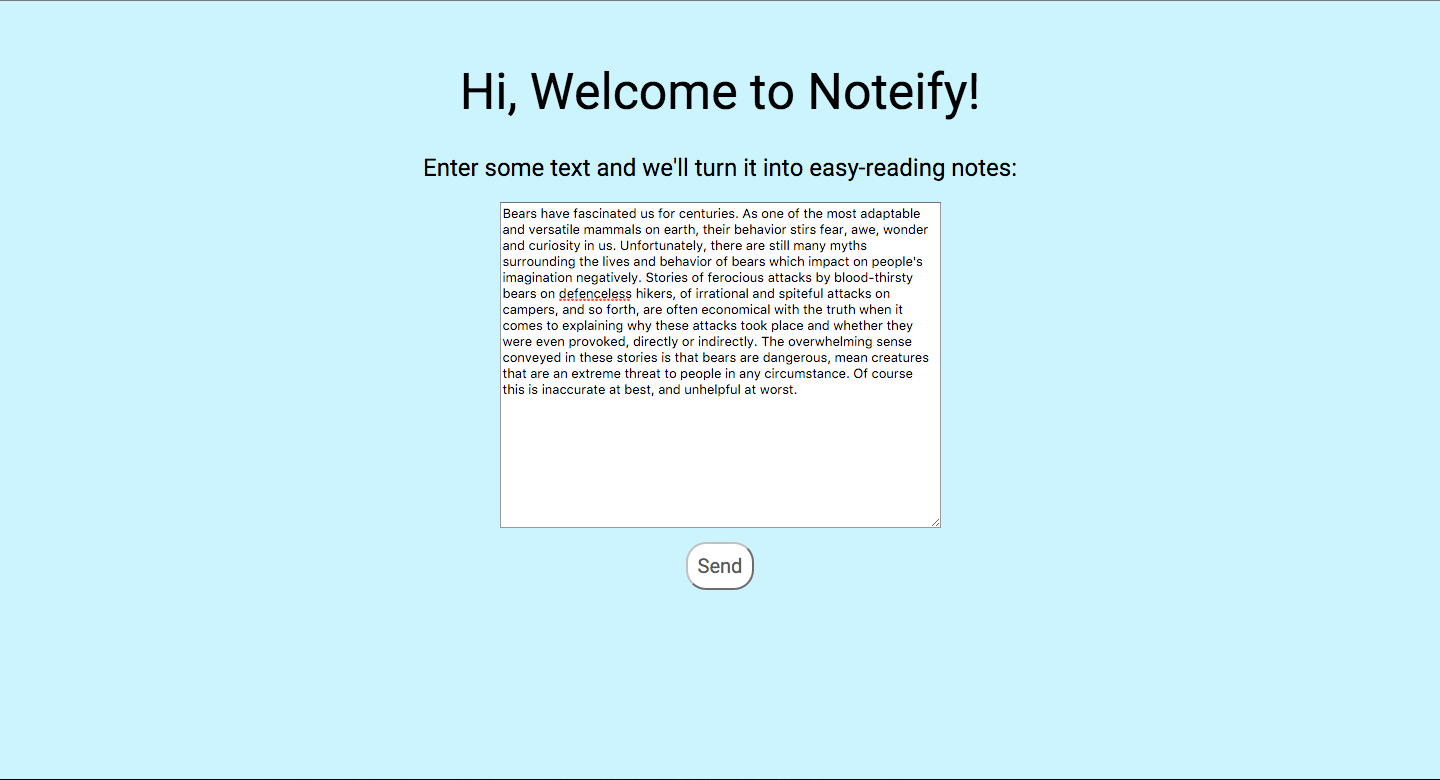
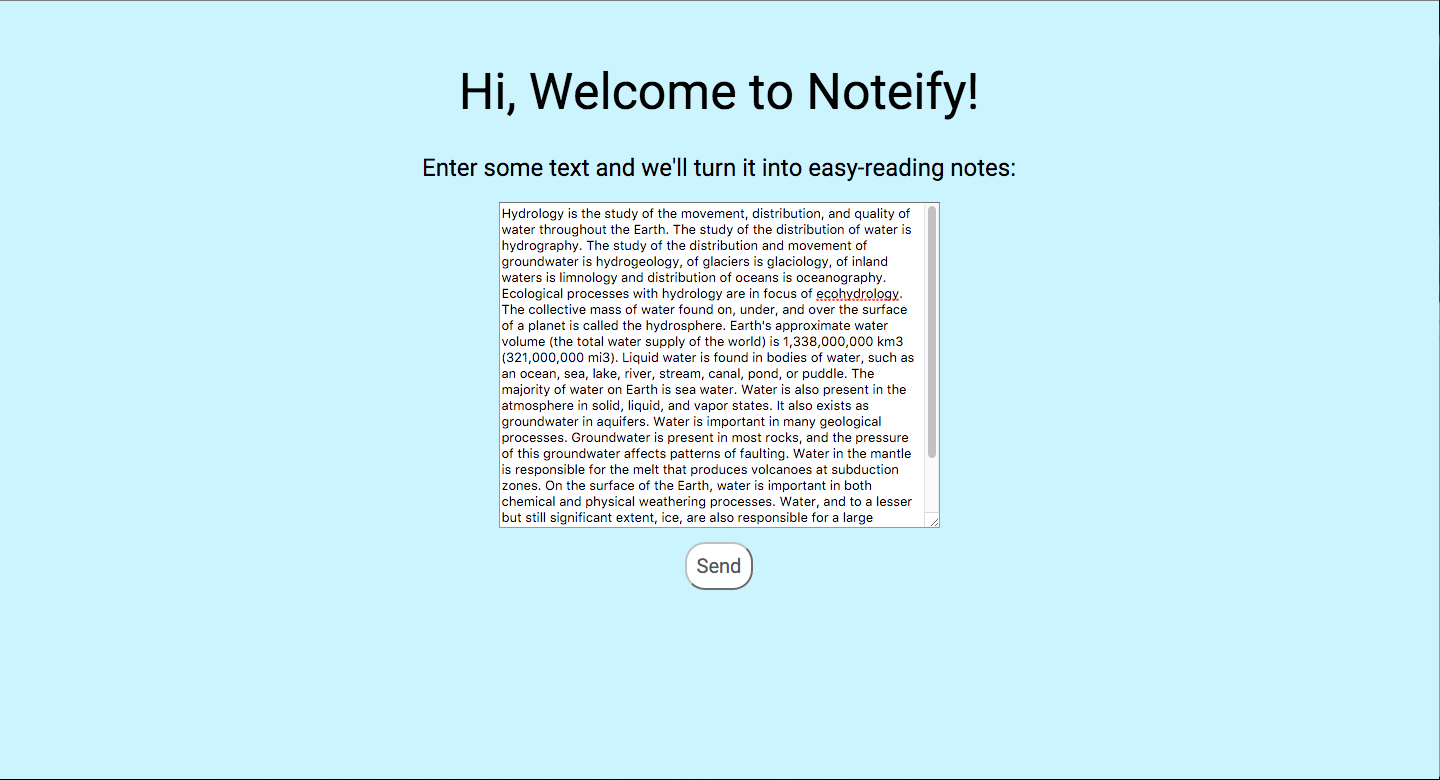
yay we're done

diff --git a/templates/page.html b/templates/page.html
@@ -1,1 +1,1 @@
-<html><head><link href='../static/styles.css' rel='stylesheet'><title>Converted Text</title></head><body id='convertedbody'><p><font size="4">Bears</font><font size="5"> </font><font size="2.5">have</font><font size="5"> </font><font size="5">fascinated</font><font size="5"> </font><font size="2.5">us</font><font size="5"> </font><font size="2.5">for</font><font size="5"> </font><font size="4">centuries</font>.<font size="5"></font><font size="5"> </font><font size="2.5">As</font><font size="5"> </font><font size="2.5">one</font><font size="5"> </font><font size="2.5">of</font><font size="5"> </font><font size="2.5">the</font><font size="5"> </font><font size="3">most</font><font size="5"> </font><font size="5">adaptable</font><font size="5"> </font><font size="2.5">and</font><font size="5"> </font><font size="4">versatile</font><font size="5"> </font><font size="4">mammals</font><font size="5"> </font><font size="2.5">on</font><font size="5"> </font><font size="4">earth</font>,<font size="5"></font><font size="5"> </font><font size="2.5">their</font><font size="5"> </font><font size="4">behavior</font><font size="5"> </font><font size="5">stirs</font><font size="5"> </font><font size="4">fear</font>,<font size="5"></font><font size="5"> </font><font size="5">awe</font>,<font size="5"></font><font size="5"> </font><font size="4">wonder</font><font size="5"> </font><font size="2.5">and</font><font size="5"> </font><font size="5">curiosity</font><font size="5"> </font><font size="2.5">in</font><font size="5"> </font><font size="2.5">us</font>.<font size="5"></font><font size="5"> </font><font size="4">Unfortunately</font>,<font size="5"></font><font size="5"> </font><font size="2.5">there</font><font size="5"> </font><font size="2.5">are</font><font size="5"> </font><font size="3">still</font><font size="5"> </font><font size="3">many</font><font size="5"> </font><font size="5">myths</font><font size="5"> </font><font size="4">surrounding</font><font size="5"> </font><font size="2.5">the</font><font size="5"> </font><font size="4">lives</font><font size="5"> </font><font size="2.5">and</font><font size="5"> </font><font size="4">behavior</font><font size="5"> </font><font size="2.5">of</font><font size="5"> </font><font size="4">bears</font><font size="5"> </font><font size="2.5">which</font><font size="5"> </font><font size="4">impact</font><font size="5"> </font><font size="2.5">on</font><font size="5"> </font><font size="5">people's</font><font size="5"> </font><font size="4">imagination</font><font size="5"> </font><font size="5">negatively</font>.<font size="5"></font><font size="5"> </font><font size="3">Stories</font><font size="5"> </font><font size="2.5">of</font><font size="5"> </font><font size="5">ferocious</font><font size="5"> </font><font size="4">attacks</font><font size="5"> </font><font size="2.5">by</font><font size="5"> </font><font size="4">blood</font>-<font size="5">thirsty</font><font size="5"> </font><font size="4">bears</font><font size="5"> </font><font size="2.5">on</font><font size="5"> </font><font size="5">defenceless</font><font size="5"> </font><font size="5">hikers</font>,<font size="5"></font><font size="5"> </font><font size="2.5">of</font><font size="5"> </font><font size="4">irrational</font><font size="5"> </font><font size="2.5">and</font><font size="5"> </font><font size="4">spiteful</font><font size="5"> </font><font size="4">attacks</font><font size="5"> </font><font size="2.5">on</font><font size="5"> </font><font size="5">campers</font>,<font size="5"></font><font size="5"> </font><font size="2.5">and</font><font size="5"> </font><font size="2.5">so</font><font size="5"> </font><font size="4">forth</font>,<font size="5"></font><font size="5"> </font><font size="2.5">are</font><font size="5"> </font><font size="3">often</font><font size="5"> </font><font size="5">economical</font><font size="5"> </font><font size="2.5">with</font><font size="5"> </font><font size="2.5">the</font><font size="5"> </font><font size="4">truth</font><font size="5"> </font><font size="2.5">when</font><font size="5"> </font><font size="2.5">it</font><font size="5"> </font><font size="4">comes</font><font size="5"> </font><font size="2.5">to</font><font size="5"> </font><font size="4">explaining</font><font size="5"> </font><font size="3">why</font><font size="5"> </font><font size="2.5">these</font><font size="5"> </font><font size="4">attacks</font><font size="5"> </font><font size="4">took</font><font size="5"> </font><font size="3">place</font><font size="5"> </font><font size="2.5">and</font><font size="5"> </font><font size="3">whether</font><font size="5"> </font><font size="2.5">they</font><font size="5"> </font><font size="2.5">were</font><font size="5"> </font><font size="3">even</font><font size="5"> </font><font size="5">provoked</font>,<font size="5"></font><font size="5"> </font><font size="4">directly</font><font size="5"> </font><font size="2.5">or</font><font size="5"> </font><font size="5">indirectly</font>.<font size="5"></font><font size="5"> </font><font size="2.5">The</font><font size="5"> </font><font size="5">overwhelming</font><font size="5"> </font><font size="4">sense</font><font size="5"> </font><font size="5">conveyed</font><font size="5"> </font><font size="2.5">in</font><font size="5"> </font><font size="2.5">these</font><font size="5"> </font><font size="3">stories</font><font size="5"> </font><font size="2.5">is</font><font size="5"> </font><font size="2.5">that</font><font size="5"> </font><font size="4">bears</font><font size="5"> </font><font size="2.5">are</font><font size="5"> </font><font size="4">dangerous</font>,<font size="5"></font><font size="5"> </font><font size="4">mean</font><font size="5"> </font><font size="4">creatures</font><font size="5"> </font><font size="2.5">that</font><font size="5"> </font><font size="2.5">are</font><font size="5"> </font><font size="2.5">an</font><font size="5"> </font><font size="4">extreme</font><font size="5"> </font><font size="4">threat</font><font size="5"> </font><font size="2.5">to</font><font size="5"> </font><font size="3">people</font><font size="5"> </font><font size="2.5">in</font><font size="5"> </font><font size="2.5">any</font><font size="5"> </font><font size="5">circumstance</font>.<font size="5"></font><font size="5"> </font><font size="2.5">Of</font><font size="5"> </font><font size="3">course</font><font size="5"> </font><font size="2.5">this</font><font size="5"> </font><font size="2.5">is</font><font size="5"> </font><font size="5">inaccurate</font><font size="5"> </font><font size="2.5">at</font><font size="5"> </font><font size="3">best</font>,<font size="5"></font><font size="5"> </font><font size="2.5">and</font><font size="5"> </font><font size="5">unhelpful</font><font size="5"> </font><font size="2.5">at</font><font size="5"> </font><font size="4">worst</font>.</body></html>
+<html><head><link href='../static/styles.css' rel='stylesheet'><title>Converted Text</title></head><body id='convertedbody'><p><font size="5">Hydrology</font><font size="5"> </font><font size="2.5">is</font><font size="5"> </font><font size="2.5">the</font><font size="5"> </font><font size="3">study</font><font size="5"> </font><font size="2.5">of</font><font size="5"> </font><font size="2.5">the</font><font size="5"> </font><font size="4">movement</font>,<font size="5"></font><font size="5"> </font><font size="4">distribution</font>,<font size="5"></font><font size="5"> </font><font size="2.5">and</font><font size="5"> </font><font size="3">quality</font><font size="5"> </font><font size="2.5">of</font><font size="5"> </font><font size="3">water</font><font size="5"> </font><font size="4">throughout</font><font size="5"> </font><font size="2.5">the</font><font size="5"> </font><font size="4">Earth</font>.<font size="5"></font><font size="5"> </font><font size="2.5">The</font><font size="5"> </font><font size="3">study</font><font size="5"> </font><font size="2.5">of</font><font size="5"> </font><font size="2.5">the</font><font size="5"> </font><font size="4">distribution</font><font size="5"> </font><font size="2.5">of</font><font size="5"> </font><font size="3">water</font><font size="5"> </font><font size="2.5">is</font><font size="5"> </font><font size="5">hydrography</font>.<font size="5"></font><font size="5"> </font><font size="2.5">The</font><font size="5"> </font><font size="3">study</font><font size="5"> </font><font size="2.5">of</font><font size="5"> </font><font size="2.5">the</font><font size="5"> </font><font size="4">distribution</font><font size="5"> </font><font size="2.5">and</font><font size="5"> </font><font size="4">movement</font><font size="5"> </font><font size="2.5">of</font><font size="5"> </font><font size="4">groundwater</font><font size="5"> </font><font size="2.5">is</font><font size="5"> </font><font size="5">hydrogeology</font>,<font size="5"></font><font size="5"> </font><font size="2.5">of</font><font size="5"> </font><font size="5">glaciers</font><font size="5"> </font><font size="2.5">is</font><font size="5"> </font><font size="5">glaciology</font>,<font size="5"></font><font size="5"> </font><font size="2.5">of</font><font size="5"> </font><font size="5">inland</font><font size="5"> </font><font size="4">waters</font><font size="5"> </font><font size="2.5">is</font><font size="5"> </font><font size="5">limnology</font><font size="5"> </font><font size="2.5">and</font><font size="5"> </font><font size="4">distribution</font><font size="5"> </font><font size="2.5">of</font><font size="5"> </font><font size="4">oceans</font><font size="5"> </font><font size="2.5">is</font><font size="5"> </font><font size="5">oceanography</font>.<font size="5"></font><font size="5"> </font><font size="4">Ecological</font><font size="5"> </font><font size="4">processes</font><font size="5"> </font><font size="2.5">with</font><font size="5"> </font><font size="5">hydrology</font><font size="5"> </font><font size="2.5">are</font><font size="5"> </font><font size="2.5">in</font><font size="5"> </font><font size="4">focus</font><font size="5"> </font><font size="2.5">of</font><font size="5"> </font><font size="5">ecohydrology</font>.<font size="5"></font><font size="5"> </font><font size="2.5">The</font><font size="5"> </font><font size="4">collective</font><font size="5"> </font><font size="4">mass</font><font size="5"> </font><font size="2.5">of</font><font size="5"> </font><font size="3">water</font><font size="5"> </font><font size="3">found</font><font size="5"> </font><font size="2.5">on</font>,<font size="5"></font><font size="5"> </font><font size="3">under</font>,<font size="5"></font><font size="5"> </font><font size="2.5">and</font><font size="5"> </font><font size="3">over</font><font size="5"> </font><font size="2.5">the</font><font size="5"> </font><font size="4">surface</font><font size="5"> </font><font size="2.5">of</font><font size="5"> </font><font size="2.5">a</font><font size="5"> </font><font size="4">planet</font><font size="5"> </font><font size="2.5">is</font><font size="5"> </font><font size="3">called</font><font size="5"> </font><font size="2.5">the</font><font size="5"> </font><font size="5">hydrosphere</font>.<font size="5"></font><font size="5"> </font><font size="5">Earth's</font><font size="5"> </font><font size="4">approximate</font><font size="5"> </font><font size="3">water</font><font size="5"> </font><font size="4">volume</font><font size="5"> </font><font size="5"></font>(<font size="2.5">the</font><font size="5"> </font><font size="3">total</font><font size="5"> </font><font size="3">water</font><font size="5"> </font><font size="4">supply</font><font size="5"> </font><font size="2.5">of</font><font size="5"> </font><font size="2.5">the</font><font size="5"> </font><font size="3">world</font>)<font size="5"></font><font size="5"> </font><font size="2.5">is</font><font size="5"> </font><font size="5"></font>1<font size="5"></font>,<font size="5"></font>3<font size="5"></font>3<font size="5"></font>8<font size="5"></font>,<font size="5"></font>0<font size="5"></font>0<font size="5"></font>0<font size="5"></font>,<font size="5"></font>0<font size="5"></font>0<font size="5"></font>0<font size="5"></font><font size="5"> </font><font size="4">km</font>3<font size="5"></font><font size="5"> </font><font size="5"></font>(<font size="5"></font>3<font size="5"></font>2<font size="5"></font>1<font size="5"></font>,<font size="5"></font>0<font size="5"></font>0<font size="5"></font>0<font size="5"></font>,<font size="5"></font>0<font size="5"></font>0<font size="5"></font>0<font size="5"></font><font size="5"> </font><font size="4">mi</font>3<font size="5"></font>)<font size="5"></font>.<font size="5"></font><font size="5"> </font><font size="4">Liquid</font><font size="5"> </font><font size="3">water</font><font size="5"> </font><font size="2.5">is</font><font size="5"> </font><font size="3">found</font><font size="5"> </font><font size="2.5">in</font><font size="5"> </font><font size="4">bodies</font><font size="5"> </font><font size="2.5">of</font><font size="5"> </font><font size="3">water</font>,<font size="5"></font><font size="5"> </font><font size="3">such</font><font size="5"> </font><font size="2.5">as</font><font size="5"> </font><font size="2.5">an</font><font size="5"> </font><font size="4">ocean</font>,<font size="5"></font><font size="5"> </font><font size="4">sea</font>,<font size="5"></font><font size="5"> </font><font size="3">lake</font>,<font size="5"></font><font size="5"> </font><font size="4">river</font>,<font size="5"></font><font size="5"> </font><font size="4">stream</font>,<font size="5"></font><font size="5"> </font><font size="4">canal</font>,<font size="5"></font><font size="5"> </font><font size="4">pond</font>,<font size="5"></font><font size="5"> </font><font size="2.5">or</font><font size="5"> </font><font size="4">puddle</font>.<font size="5"></font><font size="5"> </font><font size="2.5">The</font><font size="5"> </font><font size="4">majority</font><font size="5"> </font><font size="2.5">of</font><font size="5"> </font><font size="3">water</font><font size="5"> </font><font size="2.5">on</font><font size="5"> </font><font size="4">Earth</font><font size="5"> </font><font size="2.5">is</font><font size="5"> </font><font size="4">sea</font><font size="5"> </font><font size="3">water</font>.<font size="5"></font><font size="5"> </font><font size="3">Water</font><font size="5"> </font><font size="2.5">is</font><font size="5"> </font><font size="2.5">also</font><font size="5"> </font><font size="3">present</font><font size="5"> </font><font size="2.5">in</font><font size="5"> </font><font size="2.5">the</font><font size="5"> </font><font size="4">atmosphere</font><font size="5"> </font><font size="2.5">in</font><font size="5"> </font><font size="4">solid</font>,<font size="5"></font><font size="5"> </font><font size="4">liquid</font>,<font size="5"></font><font size="5"> </font><font size="2.5">and</font><font size="5"> </font><font size="5">vapor</font><font size="5"> </font><font size="3">states</font>.<font size="5"></font><font size="5"> </font><font size="2.5">It</font><font size="5"> </font><font size="2.5">also</font><font size="5"> </font><font size="4">exists</font><font size="5"> </font><font size="2.5">as</font><font size="5"> </font><font size="4">groundwater</font><font size="5"> </font><font size="2.5">in</font><font size="5"> </font><font size="5">aquifers</font>.<font size="5"></font><font size="5"> </font><font size="3">Water</font><font size="5"> </font><font size="2.5">is</font><font size="5"> </font><font size="3">important</font><font size="5"> </font><font size="2.5">in</font><font size="5"> </font><font size="3">many</font><font size="5"> </font><font size="4">geological</font><font size="5"> </font><font size="4">processes</font>.<font size="5"></font><font size="5"> </font><font size="4">Groundwater</font><font size="5"> </font><font size="2.5">is</font><font size="5"> </font><font size="3">present</font><font size="5"> </font><font size="2.5">in</font><font size="5"> </font><font size="3">most</font><font size="5"> </font><font size="4">rocks</font>,<font size="5"></font><font size="5"> </font><font size="2.5">and</font><font size="5"> </font><font size="2.5">the</font><font size="5"> </font><font size="4">pressure</font><font size="5"> </font><font size="2.5">of</font><font size="5"> </font><font size="2.5">this</font><font size="5"> </font><font size="4">groundwater</font><font size="5"> </font><font size="4">affects</font><font size="5"> </font><font size="4">patterns</font><font size="5"> </font><font size="2.5">of</font><font size="5"> </font><font size="5">faulting</font>.<font size="5"></font><font size="5"> </font><font size="3">Water</font><font size="5"> </font><font size="2.5">in</font><font size="5"> </font><font size="2.5">the</font><font size="5"> </font><font size="5">mantle</font><font size="5"> </font><font size="2.5">is</font><font size="5"> </font><font size="4">responsible</font><font size="5"> </font><font size="2.5">for</font><font size="5"> </font><font size="2.5">the</font><font size="5"> </font><font size="5">melt</font><font size="5"> </font><font size="2.5">that</font><font size="5"> </font><font size="4">produces</font><font size="5"> </font><font size="5">volcanoes</font><font size="5"> </font><font size="2.5">at</font><font size="5"> </font><font size="5">subduction</font><font size="5"> </font><font size="4">zones</font>.<font size="5"></font><font size="5"> </font><font size="2.5">On</font><font size="5"> </font><font size="2.5">the</font><font size="5"> </font><font size="4">surface</font><font size="5"> </font><font size="2.5">of</font><font size="5"> </font><font size="2.5">the</font><font size="5"> </font><font size="4">Earth</font>,<font size="5"></font><font size="5"> </font><font size="3">water</font><font size="5"> </font><font size="2.5">is</font><font size="5"> </font><font size="3">important</font><font size="5"> </font><font size="2.5">in</font><font size="5"> </font><font size="3">both</font><font size="5"> </font><font size="4">chemical</font><font size="5"> </font><font size="2.5">and</font><font size="5"> </font><font size="4">physical</font><font size="5"> </font><font size="5">weathering</font><font size="5"> </font><font size="4">processes</font>.<font size="5"></font><font size="5"> </font><font size="3">Water</font>,<font size="5"></font><font size="5"> </font><font size="2.5">and</font><font size="5"> </font><font size="2.5">to</font><font size="5"> </font><font size="2.5">a</font><font size="5"> </font><font size="4">lesser</font><font size="5"> </font><font size="2.5">but</font><font size="5"> </font><font size="3">still</font><font size="5"> </font><font size="4">significant</font><font size="5"> </font><font size="4">extent</font>,<font size="5"></font><font size="5"> </font><font size="4">ice</font>,<font size="5"></font><font size="5"> </font><font size="2.5">are</font><font size="5"> </font><font size="2.5">also</font><font size="5"> </font><font size="4">responsible</font><font size="5"> </font><font size="2.5">for</font><font size="5"> </font><font size="2.5">a</font><font size="5"> </font><font size="3">large</font><font size="5"> </font><font size="3">amount</font><font size="5"> </font><font size="2.5">of</font><font size="5"> </font><font size="4">sediment</font><font size="5"> </font><font size="4">transport</font><font size="5"> </font><font size="2.5">that</font><font size="5"> </font><font size="4">occurs</font><font size="5"> </font><font size="2.5">on</font><font size="5"> </font><font size="2.5">the</font><font size="5"> </font><font size="4">surface</font><font size="5"> </font><font size="2.5">of</font><font size="5"> </font><font size="2.5">the</font><font size="5"> </font><font size="4">earth</font>.<font size="5"></font><font size="5"> </font><font size="4">Deposition</font><font size="5"> </font><font size="2.5">of</font><font size="5"> </font><font size="5">transported</font><font size="5"> </font><font size="4">sediment</font><font size="5"> </font><font size="4">forms</font><font size="5"> </font><font size="3">many</font><font size="5"> </font><font size="4">types</font><font size="5"> </font><font size="2.5">of</font><font size="5"> </font><font size="4">sedimentary</font><font size="5"> </font><font size="4">rocks</font>,<font size="5"></font><font size="5"> </font><font size="2.5">which</font><font size="5"> </font><font size="3">make</font><font size="5"> </font><font size="2.5">up</font><font size="5"> </font><font size="2.5">the</font><font size="5"> </font><font size="5">geologic</font><font size="5"> </font><font size="3">record</font><font size="5"> </font><font size="2.5">of</font><font size="5"> </font><font size="4">Earth</font><font size="5"> </font><font size="3">history</font>.</body></html>
